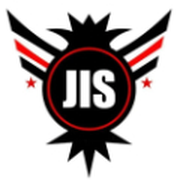
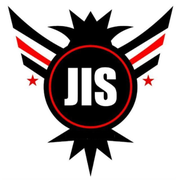
Use HD images from jisgroups.com
- HD logo, favicons and 1080px gallery/team photos replace screenshot crops
- 36 client logos (was 8) in a two-row, count-paced, full-colour marquee
- All 4 testimonials from the live site, with photos
- Three promo banners on the homepage and gallery
- Canonical site URL defaults to https://jisgroups.com

Claude-Session: https://claude.ai/code/session_01Fdqbznf9VAMgdZFzxDY2aG

Changed region(s): [[0.0278, 0.0278, 0.9722, 1.0]]

diff --git a/components/sections.tsx b/components/sections.tsx
@@ -12,7 +12,7 @@ import {
   Quote,
   Rocket,
 } from "lucide-react";
-import { clients, site, stats, steps, testimonials, whyChoose } from "@/lib/site";
+import { banners, clients, site, stats, steps, testimonials, whyChoose } from "@/lib/site";
 import { services, type Service } from "@/lib/services";
 import { industries } from "@/lib/industries";
 import { breadcrumbSchema, faqSchema } from "@/lib/seo";
@@ -52,7 +52,7 @@ export function PageHero({
   title,
   subtitle,
   crumbs,
-  image = "/images/hero-banner.jpg",
+  image = "/images/gallery/jis-team.jpg",
   eyebrow,
   children,
 }: {
@@ -263,45 +263,89 @@ export function HowItWorks() {
   );
 }
 
-export function ClientMarquee({ title = "Some of our clients" }: { title?: string }) {
-  const row = [...clients, ...clients];
+function LogoRow({ items, reverse = false }: { items: typeof clients; reverse?: boolean }) {
+  const row = [...items, ...items];
   return (
-    <section className="section border-y border-ink-100 bg-white !py-14">
-      <div className="container-x">
-        <p className="text-center font-display text-2xl font-semibold text-ink-900 sm:text-3xl">{title}</p>
+    <div className="relative overflow-hidden [mask-image:linear-gradient(to_right,transparent,black_8%,black_92%,transparent)]">
+      <ul
+        className={`flex w-max items-center gap-5 py-2 hover:[animation-play-state:paused] ${reverse ? "animate-marquee-reverse" : "animate-marquee"}`}
+        // ~4.5s per logo keeps the scroll calm regardless of how many logos there are
+        style={{ animationDuration: `${items.length * 4.5}s` }}
+      >
+        {row.map((c, i) => (
+          <li
+            key={`${c.name}-${i}`}
+            aria-hidden={i >= items.length}
+            className="flex h-24 w-48 shrink-0 items-center justify-center overflow-hidden rounded-xl border border-ink-100 bg-white p-2 shadow-sm"
+          >
+            <Image src={c.logo} alt={i < items.length ? `${c.name} logo` : ""} width={180} height={90} className="max-h-20 w-auto object-contain" />
+          </li>
+        ))}
+      </ul>
+    </div>
+  );
+}
+
+export function ClientMarquee({ title = "Some of our clients" }: { title?: string }) {
+  const half = Math.ceil(clients.length / 2);
+  return (
+    <section className="section border-y border-ink-100 bg-ink-50 !py-14">
+      <div className="container-x flex flex-col items-center gap-2 text-center">
+        <p className="font-display text-2xl font-semibold text-ink-900 sm:text-3xl">{title}</p>
+        <p className="text-sm text-ink-500">{clients.length}+ organisations across corporate, hospitality, education, government and real estate</p>
       </div>
-      <div className="relative mt-10 overflow-hidden [mask-image:linear-gradient(to_right,transparent,black_10%,black_90%,transparent)]">
-        <ul className="flex w-max animate-marquee items-center gap-14 hover:[animation-play-state:paused]">
-          {row.map((c, i) => (
-            <li key={`${c.name}-${i}`} aria-hidden={i >= clients.length} className="flex h-20 w-44 items-center justify-center">
-              <Image src={c.logo} alt={i < clients.length ? `${c.name} logo` : ""} width={176} height={80} className="max-h-20 w-auto object-contain grayscale transition hover:grayscale-0" />
-            </li>
-          ))}
-        </ul>
+      <div className="mt-10 space-y-4">
+        <LogoRow items={clients.slice(0, half)} />
+        <LogoRow items={clients.slice(half)} reverse />
+      </div>
+      <div className="mt-8 text-center">
+        <Link href="/clients" className="inline-flex items-center gap-1 text-sm font-semibold text-brand-600 hover:underline">
+          View all clients <ArrowRight className="h-4 w-4" />
+        </Link>
       </div>
     </section>
   );
 }
 
 export function TestimonialBlock() {
-  const t = testimonials[0];
   return (
     <section className="section">
       <div className="container-x">
-        <SectionHeading eyebrow="Testimonials" title="Trusted by Businesses Nationwide" />
-        <figure className="relative mx-auto mt-12 max-w-4xl overflow-hidden rounded-3xl bg-ink-900 p-10 text-white sm:p-14">
-          <Quote className="absolute -top-2 right-6 h-32 w-32 text-white/5" aria-hidden="true" />
-          <blockquote className="relative font-display text-xl leading-relaxed sm:text-2xl">&ldquo;{t.quote}&rdquo;</blockquote>
-          <figcaption className="mt-8 flex items-center gap-4">
-            <span className="h-0.5 w-10 bg-brand-600" />
-            <span>
-              <span className="block font-semibold">{t.author}</span>
-              <span className="text-sm text-white/60">{t.org}</span>
-            </span>
-          </figcaption>
-        </figure>
+        <SectionHeading eyebrow="Testimonials" title="Trusted by Businesses Nationwide" text="What admin heads, facility managers and security leaders say about working with JIS." />
+        <div className="mt-12 grid gap-6 md:grid-cols-2">
+          {testimonials.map((t, i) => (
+            <figure
+              key={t.org}
+              className={`relative flex flex-col overflow-hidden rounded-3xl p-8 sm:p-10 ${i === 0 || i === 3 ? "bg-ink-900 text-white" : "border border-ink-100 bg-white"}`}
+            >
+              <Quote className={`absolute top-6 right-6 h-16 w-16 ${i === 0 || i === 3 ? "text-white/10" : "text-brand-100"}`} aria-hidden="true" />
+              <blockquote className={`relative flex-1 pr-14 font-display text-lg leading-relaxed sm:text-xl ${i === 0 || i === 3 ? "text-white" : "text-ink-900"}`}>
+                &ldquo;{t.quote}&rdquo;
+              </blockquote>
+              <figcaption className="mt-8 flex items-center gap-4">
+                <Image src={t.photo} alt="" width={56} height={56} className="h-14 w-14 rounded-full object-cover ring-2 ring-brand-600" />
+                <span>
+                  <span className="block font-semibold">{t.author}</span>
+                  <span className={`text-sm ${i === 0 || i === 3 ? "text-white/60" : "text-ink-500"}`}>{t.org}</span>
+                </span>
+              </figcaption>
+            </figure>
+          ))}
+        </div>
       </div>
     </section>
+  );
+}
+
+export function BannerStrip() {
+  return (
+    <div className="grid gap-5 md:grid-cols-3">
+      {banners.map((b) => (
+        <Link key={b.src} href="/get-a-quote" className="group relative block aspect-[925/698] overflow-hidden rounded-2xl shadow-lg shadow-ink-900/10">
+          <Image src={b.src} alt={b.alt} fill sizes="(min-width:768px) 33vw, 100vw" className="object-cover transition duration-500 group-hover:scale-105" />
+        </Link>
+      ))}
+    </div>
   );
 }
 

diff --git a/lib/site.ts b/lib/site.ts
@@ -2,7 +2,7 @@ export const site = {
   name: "JIS Business Solutions Pvt. Ltd.",
   shortName: "JIS Business Solutions",
   brand: "JIS Group",
-  url: (process.env.NEXT_PUBLIC_SITE_URL || "https://www.jisgroup.in").replace(/\/$/, ""),
+  url: (process.env.NEXT_PUBLIC_SITE_URL || "https://jisgroups.com").replace(/\/$/, ""),
   tagline: "Security, Housekeeping & Facility Management Services Across India",
   description:
     "JIS Business Solutions Pvt. Ltd. is a leading PAN India facility management and manpower outsourcing company offering security guards, housekeeping, lift operators, admin support and facility management staff for corporates and institutions. Get a customised staffing proposal within 24 hours.",
@@ -38,14 +38,42 @@ export const nav = [
 export const quantityOptions = ["1 – 5", "6 – 15", "16 – 50", "51 – 100", "100+"];
 
 export const clients = [
-  { name: "Great Gatsby Club", logo: "/images/clients/great-gatsby-club.png" },
   { name: "Godrej Properties", logo: "/images/clients/godrej-properties.png" },
   { name: "Shipra Group", logo: "/images/clients/shipra-group.png" },
-  { name: "LPS Global School", logo: "/images/clients/lps-global-school.png" },
-  { name: "Marque Impex", logo: "/images/clients/marque-impex.png" },
-  { name: "Institutional Client", logo: "/images/clients/institutional-client.png" },
   { name: "Indian Institute of Foreign Trade (IIFT)", logo: "/images/clients/iift.png" },
+  { name: "DRDO", logo: "/images/clients/drdo.png" },
+  { name: "IIT Roorkee", logo: "/images/clients/iit-roorkee.png" },
+  { name: "IIT Jodhpur", logo: "/images/clients/iit-jodhpur.png" },
+  { name: "IIT Jammu", logo: "/images/clients/iit-jammu.png" },
+  { name: "Haldiram's", logo: "/images/clients/haldirams.png" },
+  { name: "Bikanervala", logo: "/images/clients/bikanervala.png" },
+  { name: "Theobroma", logo: "/images/clients/theobroma.png" },
+  { name: "OYO Rooms", logo: "/images/clients/oyo-rooms.png" },
+  { name: "OYO Campus", logo: "/images/clients/oyo-campus.png" },
+  { name: "UFLEX", logo: "/images/clients/uflex.png" },
+  { name: "Citelum (Groupe EDF)", logo: "/images/clients/citelum.png" },
+  { name: "HollySys", logo: "/images/clients/hollysys.png" },
+  { name: "Nuberg", logo: "/images/clients/nuberg.png" },
+  { name: "Nuberg EPC", logo: "/images/clients/nuberg-epc.png" },
+  { name: "Nirala Aspire", logo: "/images/clients/nirala-aspire.png" },
+  { name: "Innov8 Coworking", logo: "/images/clients/innov8.png" },
+  { name: "Zolo", logo: "/images/clients/zolo.png" },
+  { name: "Easyrewardz", logo: "/images/clients/easyrewardz.png" },
+  { name: "HELM360", logo: "/images/clients/helm360.png" },
+  { name: "IDC Technologies", logo: "/images/clients/idc-technologies.png" },
+  { name: "CIPL", logo: "/images/clients/cipl.png" },
   { name: "Radiate", logo: "/images/clients/radiate.png" },
+  { name: "Marque Impex", logo: "/images/clients/marque-impex.png" },
+  { name: "Peachtree", logo: "/images/clients/peachtree.png" },
+  { name: "Europa Park", logo: "/images/clients/europa-park.png" },
+  { name: "Pujashree", logo: "/images/clients/pujashree.png" },
+  { name: "Urban Harvest", logo: "/images/clients/urban-harvest.png" },
+  { name: "M&B Footwear", logo: "/images/clients/mb-footwear.png" },
+  { name: "SAMS Kappal College", logo: "/images/clients/sams-kappal-college.png" },
+  { name: "LPS Global School", logo: "/images/clients/lps-global-school.png" },
+  { name: "Dolphin Kids", logo: "/images/clients/dolphin-kids.png" },
+  { name: "Great Gatsby Club", logo: "/images/clients/great-gatsby-club.png" },
+  { name: "Institutional Client", logo: "/images/clients/institutional-client.png" },
 ];
 
 export const gallery = [
@@ -61,11 +89,37 @@ export const gallery = [
 
 export const testimonials = [
   {
+    quote: "Reliable, professional, and responsive — JIS ensures our property stays secure and well-maintained.",
+    author: "Admin Head",
+    org: "Leading IT Company, Gurgaon",
+    photo: "/images/testimonials/2.jpg",
+  },
+  {
+    quote: "We've been working with JIS for over 3 years — their staff is disciplined and well-trained.",
+    author: "Facility Manager",
+    org: "5-Star Hotel Chain",
+    photo: "/images/testimonials/3.jpg",
+  },
+  {
     quote:
       "JIS has been an invaluable partner. Their quick response time to any issue and the professionalism of their on-site team give us complete peace of mind.",
     author: "Operations Director",
     org: "Major Retail Outlet, Bangalore",
+    photo: "/images/testimonials/1.jpg",
   },
+  {
+    quote:
+      "The transition to JIS was seamless. Their commitment to training and modern security protocols is clear, and we've seen a measurable improvement in our facility's safety.",
+    author: "Head of Security",
+    org: "International Manufacturing Plant, Pune",
+    photo: "/images/testimonials/4.jpg",
+  },
+];
+
+export const banners = [
+  { src: "/images/banners/staffing-proposal.jpg", alt: "Get a customised staffing proposal within 24 hours — security, housekeeping, lift operators, admin support" },
+  { src: "/images/banners/trusted-across-india.jpg", alt: "10+ years trusted by corporates across India — background-verified, uniformed staff deployed in days" },
+  { src: "/images/banners/free-quote.jpg", alt: "Tired of security and housekeeping headaches? One call, verified staff, PAN India — get a free quote today" },
 ];
 
 export const whyChoose = [

diff --git a/app/gallery/page.tsx b/app/gallery/page.tsx
@@ -1,5 +1,5 @@
 import Image from "next/image";
-import { CtaBand, PageHero } from "@/components/sections";
+import { BannerStrip, CtaBand, PageHero } from "@/components/sections";
 import { gallery } from "@/lib/site";
 import { buildMetadata } from "@/lib/seo";
 
@@ -20,9 +20,14 @@ export default function GalleryPage() {
         crumbs={[{ name: "Gallery", path: "/gallery" }]}
         image="/images/gallery/jis-team.jpg"
       />
+      <section className="section !pb-0">
+        <div className="container-x">
+          <BannerStrip />
+        </div>
+      </section>
       <section className="section">
         <div className="container-x columns-1 gap-5 sm:columns-2 lg:columns-3">
-          {[...gallery, { src: "/images/team.jpg", alt: "JIS facility team group photo" }, { src: "/images/housekeeping-cafeteria.jpg", alt: "JIS housekeeping in a corporate cafeteria" }].map((g) => (
+          {[...gallery, { src: "/images/housekeeping-cafeteria.jpg", alt: "JIS housekeeping executive in a high-rise office cafeteria" }].map((g) => (
             <figure key={g.src} className="group mb-5 break-inside-avoid overflow-hidden rounded-2xl">
               <Image src={g.src} alt={g.alt} width={600} height={750} sizes="(min-width:1024px) 33vw, (min-width:640px) 50vw, 100vw" className="h-auto w-full transition duration-500 group-hover:scale-105" />
               <figcaption className="sr-only">{g.alt}</figcaption>

diff --git a/app/page.tsx b/app/page.tsx
@@ -3,6 +3,7 @@ import Link from "next/link";
 import { ArrowRight, CheckCircle2, MapPin, Phone, ShieldCheck } from "lucide-react";
 import { EnquiryForm } from "@/components/EnquiryForm";
 import {
+  BannerStrip,
   ClientMarquee,
   Faq,
   HowItWorks,
@@ -94,8 +95,9 @@ export default function HomePage() {
         </div>
       </section>
 
-      <div className="container-x relative z-10 -mt-px pt-10">
+      <div className="container-x relative z-10 -mt-px space-y-10 pt-10 pb-16">
         <StatsBar />
+        <BannerStrip />
       </div>
 
       <ClientMarquee />

diff --git a/app/layout.tsx b/app/layout.tsx
@@ -44,7 +44,7 @@ export const metadata: Metadata = {
     url: site.url,
     title: "JIS Business Solutions — Security, Housekeeping & Facility Management Across India",
     description: site.description,
-    images: [{ url: "/images/hero-banner.jpg", width: 945, height: 702, alt: site.name }],
+    images: [{ url: "/images/hero-banner.jpg", width: 925, height: 698, alt: site.name }],
   },
   twitter: { card: "summary_large_image" },
   robots: { index: true, follow: true, googleBot: { index: true, follow: true, "max-image-preview": "large", "max-snippet": -1 } },

diff --git a/app/globals.css b/app/globals.css
@@ -21,6 +21,7 @@
   --color-ink-950: #0b0b0d;
 
   --animate-marquee: marquee 90s linear infinite;
+  --animate-marquee-reverse: marquee 90s linear infinite reverse;
   @keyframes marquee {
     from { transform: translateX(0); }
     to { transform: translateX(-50%); }

diff --git a/README.md b/README.md
@@ -54,7 +54,6 @@ Without either, submissions are logged to the server console only.
 
 ## Before going live
 
-- Replace `public/images/logo.png` with a high-resolution logo (current one is extracted from a screenshot)
 - Set `NEXT_PUBLIC_SITE_URL` to the real domain and add the site to Google Search Console (`NEXT_PUBLIC_GOOGLE_SITE_VERIFICATION`), then submit `/sitemap.xml`
 - Confirm the PIN code (the old site shows both 201307 and 201309) in `lib/site.ts`
 - Update the Google Business Profile with the same name, address and phone (NAP) used on the site
